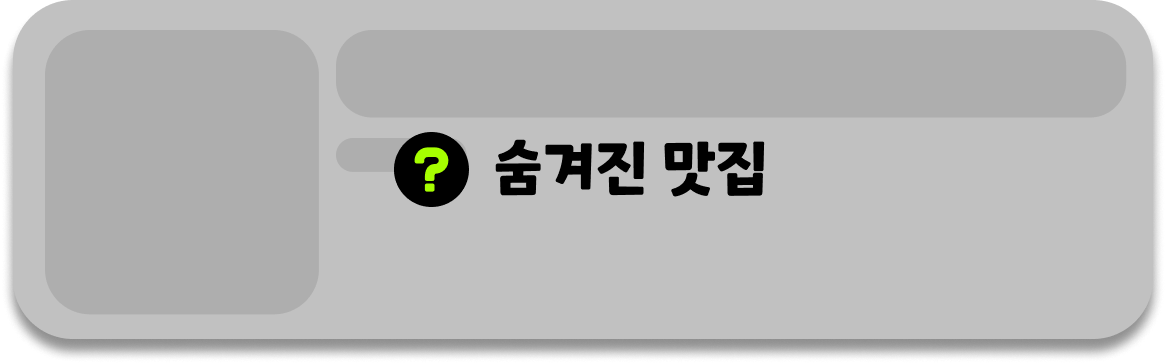
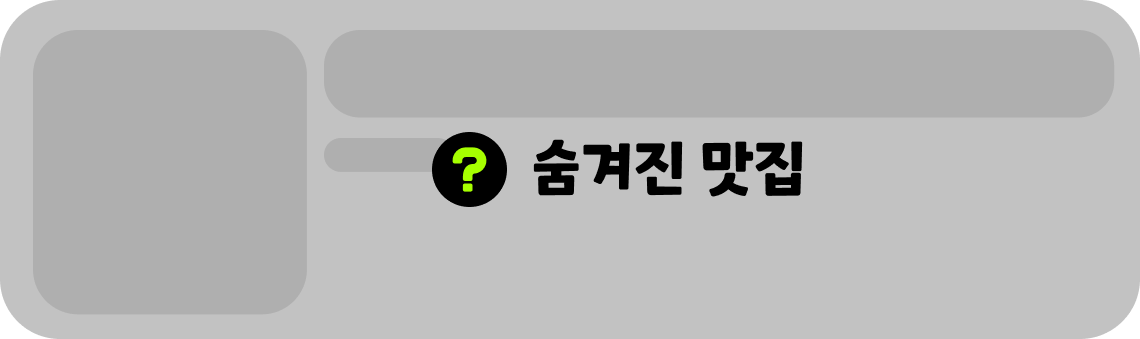
Feat(#122): 위시리스트 버튼 추가

diff --git a/src/main/resources/static/CSS/matzip/gu-detail-map.css b/src/main/resources/static/CSS/matzip/gu-detail-map.css
@@ -7,7 +7,7 @@
     position: absolute;
     top: 0;
     left: 0;
-    width: 23vw;
+    width: 20vw;
     z-index: 1;
     height: 80%;
     margin-left: 4%;
@@ -35,8 +35,8 @@
 
 .friend_btn_img {
     margin-top: 1vh;
-    width: 6.3vh;
-    height: 6.3vh;
+    width: 6.2vh;
+    height: 6.2vh;
 }
 
 .profile_img {
@@ -47,8 +47,8 @@
 .friend_card {
     box-sizing: border-box;
     float: left;
-    width: 8.3vh;
-    height: 8.3vh;
+    aspect-ratio: 1/1;
+    height: 8vh;
     border-radius: 60px;
     border: 4px solid #FF7327;
 }
@@ -58,11 +58,13 @@
     height: 8.4vh;
     margin-left: auto;
     margin-right: auto;
+    margin-bottom: 3%;
     display: flex;
     justify-content: space-around
 }
 
 .matzip_card {
+    position: relative;
     width: 100%;
     background-color: #EDEDED;
     border-radius: 15px;
@@ -70,21 +72,33 @@
     margin-bottom: 10px;
 }
 
+.wish_heart {
+    position: absolute;
+    border: none;
+    background: no-repeat;
+    aspect-ratio: 1.23 / 1;
+    width: 6.7%;
+    background-size: cover;
+    float: right;
+    bottom: 15%;
+    right: 5%;
+}
+
 .matzip_img {
     position: relative;
     display: block;
     float: left;
-    width: 23.6%;
-    height: 79.6%;
+    aspect-ratio: 1/1;
+    height: 80%;
     left: 0;
     top: 50%;
     transform: translateY(-50%);
-    margin-left: 4%;
+    margin-left: 3%;
     border-radius: 9px;
 }
 
 .matzip_name {
-    margin-top: 4%;
+    margin-top: 2%;
     margin-left: 4%;
     float: left;
     font-family: "Noto Sans KR", serif;
@@ -128,9 +142,16 @@
     border: none;
     display: block;
     margin-top: 3%;
+    font-family: "Noto Sans KR", serif;
+    font-size: 20px;
+    color: white;
 }
 
 .infowindow {
     padding: 5px;
     z-index: 1;
+    border-radius: 10px;
+    text-align: center;
+    font-size: large;
 }
+

diff --git a/src/main/resources/static/JS/matzip/gu-detail-map.js b/src/main/resources/static/JS/matzip/gu-detail-map.js
@@ -93,7 +93,7 @@ function getDivItem(place, wishList) {
     if (place.visibility === 'PUBLIC') {
         const matzipImg = document.createElement('img');
         const matzipName = document.createElement('div');
-        const wishListBtn = document.createElement('div');
+        const wishListBtn = document.createElement('input');
 
         matzipImg.className = 'matzip_img';
         matzipImg.src = place.imgUrl;
@@ -101,10 +101,12 @@ function getDivItem(place, wishList) {
         matzipName.className = 'matzip_name';
         matzipName.textContent = place.name;
 
+        wishListBtn.className = 'wish_heart';
+        wishListBtn.type = 'button'
         if (wishList.includes(place.matzipId)) {
-            wishListBtn.textContent = '누름';
+            wishListBtn.style.backgroundImage = 'url(' +fillHeartImgUrl + ')';
         } else {
-            wishListBtn.textContent = '안 누름';
+            wishListBtn.style.backgroundImage = 'url(' + emptyHeartImgUrl + ')';
         }
 
         card.appendChild(matzipImg);

diff --git a/src/main/resources/templates/matzip/gu-detail-map.html b/src/main/resources/templates/matzip/gu-detail-map.html
@@ -9,8 +9,11 @@
     <link href="https://fonts.googleapis.com/css2?family=Noto+Sans+KR:wght@100..900&display=swap" rel="stylesheet">
     <link rel="stylesheet" type="text/css" th:href="@{/CSS/matzip/gu-detail-map.css}">
     <script th:inline="javascript">
-        const data = /*[[${data}]]*/ {};
-        const hiddenImgUrl = /*[[@{/IMG/matzip/hidden_matzip.png}]]*/ 'hiddenImg';
+        const data = /*[[${data}]]*/ {},
+            hiddenImgUrl = /*[[@{/IMG/matzip/hidden_matzip.png}]]*/ 'hiddenImg',
+            emptyHeartImgUrl = /*[[@{/IMG/matzip/empty_heart.png}]]*/ 'emptyHeart',
+            fillHeartImgUrl = /*[[@{/IMG/matzip/fill_heart.png}]]*/ 'fillHeart'
+        ;
     </script>
 </head>
 <body>
